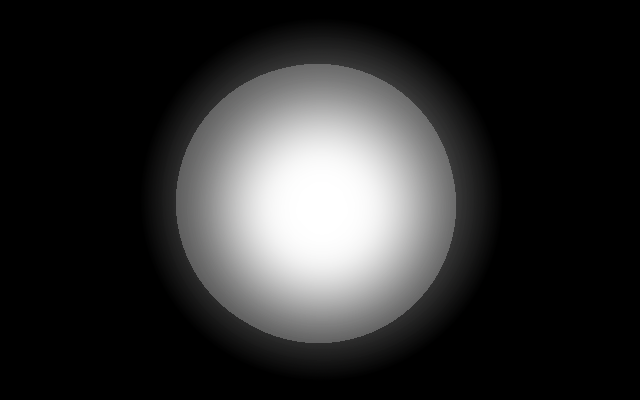
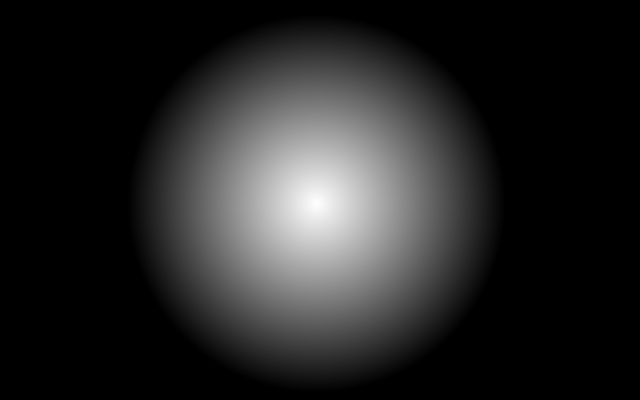
better overlay blending?

Changed region(s): [[0.25, 0.15, 0.7188, 0.87]]

diff --git a/csce444/game/scripts/player/Player.js b/csce444/game/scripts/player/Player.js
@@ -8,7 +8,6 @@ var DEFAULT_GUY_OFFSET_LEFT   = PLAYER_LENGTH  * -.2;
 var DEFAULT_GUY_OFFSET_TOP    = PLAYER_LENGTH  * -.3;
 var DEFAULT_GUY_OFFSET_BOTTOM = PLAYER_LENGTH  *  .2;
 
-
 var PLAYER_TURN_SPEED = 10;
 
 function Player() {
@@ -27,7 +26,7 @@ function Player() {
         x: 0,
         y: 0
     };
-
+    this.count = 0;
     this.facing = "right";
     // images
     this.playerImageLeft    = ResourceManager.loadImage('./images/player/CharacterLeft.png');
@@ -48,6 +47,8 @@ function Player() {
     this.offRoadOverLays[1]        = ResourceManager.loadImage("./images/overlays/OffRoadOverLay2.png");
     this.offRoadOverLays[2]        = ResourceManager.loadImage("./images/overlays/OffRoadOverLay3.png");
     this.offRoadOverLays[3]        = ResourceManager.loadImage("./images/overlays/OffRoadOverLay4.png");
+    this.blankOverLay              = ResourceManager.loadImage("./images/overlays/BlankOverLay.png");
+
 }
 
 
@@ -55,6 +56,10 @@ Player.prototype.init = function() {
     this.onPathMusic.play();
     this.onPathMusic.volume = .05;
     this.commitSinSound.volume = .05;
+
+    this.offRoadData  = getImageData(this.offRoadOverLays[0]);
+    this.onRoadData   = getImageData(this.roadOverLay);
+    this.blankData = getImageData(this.blankOverLay);
 }
 
 Player.prototype.update = function() {
@@ -268,32 +273,57 @@ Player.prototype.pathChangeHandler = function(oldPos , newPos) {
 Player.prototype.drawLight = function() {
     if ( !world.roadPosition)
         return;
-    if ( this.onRoad ) {
-        Camera.drawImageSmoothWorldPos(this.roadOverLay, this.position.x - CAMERA_NATIVE_WIDTH / 2, world.roadPosition.y - this.roadOverLay.height * TILE_LENGTH / 2, CAMERA_NATIVE_WIDTH, this.roadOverLay.height * TILE_LENGTH);
-    }
-    else {
-        switch ( this.lightLevel ) {
-            case 0 : {
-                Camera.drawImageSmooth(this.offRoadOverLays[0] , 0  , 0 , CAMERA_NATIVE_WIDTH , CAMERA_NATIVE_HEIGHT);
-                break;
-            }
-            case 1 : {
-                Camera.drawImageSmooth(this.offRoadOverLays[1] , 0  , 0 , CAMERA_NATIVE_WIDTH , CAMERA_NATIVE_HEIGHT);
-                break;
-            }
-            case 2 : {
-                Camera.drawImageSmooth(this.offRoadOverLays[2] , 0  , 0 , CAMERA_NATIVE_WIDTH , CAMERA_NATIVE_HEIGHT);
-                break;
-            }
-            case 3 : {
-                Camera.drawImageSmooth(this.offRoadOverLays[3] , 0  , 0 , CAMERA_NATIVE_WIDTH , CAMERA_NATIVE_HEIGHT);
-                break;
-            }
-        }
 
-    }
+        if ( this.count % 5 == 0) {
+            this.blendImages(this.onRoadData, this.offRoadData, this.blankData, this.blankOverLay.width, this.blankOverLay.height);
+        }
+        this.count++;
+        Camera.drawImageSmooth(this.blankOverLay , 0 , 0 , CAMERA_NATIVE_WIDTH , CAMERA_NATIVE_HEIGHT);
 };
 
+Player.prototype.blendImages = function(img1 , img2, newImage , width , height) {
+    var canvas  = document.getElementById('blendCanvas');
+    var context = canvas.getContext('2d');
+
+    if ( Math.abs(roadPosY) > 300)
+        return;
+    var roadPosY = Math.floor(player.position.y - world.roadPosition.y);
+
+    var pos = 0;
+
+    var max = 640 * 400;
+    for ( var r = 0; r < 400; r++ ) {
+        for ( var c = 0; c < 640; c++) {
+            var indexSelfLight = (r * 640 + c);
+            var roadLight      = ((r + roadPosY)  * 640 + c);
+            if ( roadLight < 0 || roadLight > (max)) {
+                indexSelfLight *= 4;
+                for ( var p = 0; p < 4; p++) {
+                    newImage.data[indexSelfLight + p] = img2.data[indexSelfLight + p];
+                }
+            }
+            else {
+                roadLight *=4;
+                indexSelfLight *=4;
+                for ( var p = 0; p < 4; p++) {
+                    newImage.data[indexSelfLight + p] = Math.min( img1.data[roadLight + p] , img2.data[indexSelfLight +p]);
+                }
+            }
+        }
+    }
+    context.clearRect(0,0,640,400);
+    context.putImageData(newImage , 0 ,0);
+    this.blankOverLay.src = canvas.toDataURL();
+};
+
+function getImageData(img) {
+    var canvas  = document.getElementById('blendCanvas');
+    var context = canvas.getContext('2d');
+    context.clearRect(0,0, 640 , 400);
+    context.drawImage(img,  0,0 , 640 , 400 );
+    var data = context.getImageData(0,0 , 640 , 400);
+    return data;
+}
 
 function offStraightAndNarrow() {
     var sassyMessage = "There is nothing out there... Come back or perish"

diff --git a/csce444/game/scripts/Camera.js b/csce444/game/scripts/Camera.js
@@ -18,6 +18,12 @@ Camera.init = function() {
         Camera.canvas.height = Camera.height;
 
     Camera.bestFitCamera();
+
+    var canvas  = document.getElementById('blendCanvas');
+    var context = canvas.getContext('2d');
+
+    canvas.width = 640;
+    canvas.height = 400;
 };
 
 Camera.bestFitCamera = function() {
@@ -80,7 +86,6 @@ Camera.drawImage = function(img, x, y, width, height) {
 };
 
 Camera.drawImageSmooth = function(img, x, y, width, height) {
-    //draw canvas without smoothing
     Camera.context.imageSmoothingEnabled = true;
     Camera.context.mozImageSmoothingEnabled = true;
     Camera.context.oImageSmoothingEnabled = true;
@@ -98,7 +103,6 @@ Camera.drawImageWorldPos = function(img , x , y , width , height) {
 }
 
 Camera.drawImageSmoothWorldPos = function(img, x, y, width, height) {
-    //draw canvas without smoothing
     Camera.context.imageSmoothingEnabled = true;
     Camera.context.mozImageSmoothingEnabled = true;
     Camera.context.oImageSmoothingEnabled = true;

diff --git a/csce444/game/style/style.css b/csce444/game/style/style.css
@@ -55,7 +55,6 @@ body {
     position: absolute;
     width: 80%;
     height: 20%;
-    background-color : white;
     bottom : 1%;
     left: 10%;
 
@@ -77,7 +76,14 @@ body {
     width: 80%;
     left: 10%;
     top : 15%;
-    color :black;
+    color :white;
+}
+
+#blendCanvas {
+    width: 640px;
+    height: 400px;
+    position: absolute;
+    bottom: -1000px;
 }
 
 

diff --git a/csce444/game/game.html b/csce444/game/game.html
@@ -26,6 +26,9 @@
         <canvas id='gameCanvas'>
 
         </canvas>
+        <canvas id='blendCanvas'>
+
+        </canvas>
         <script>
             loadGame();
         </script>
